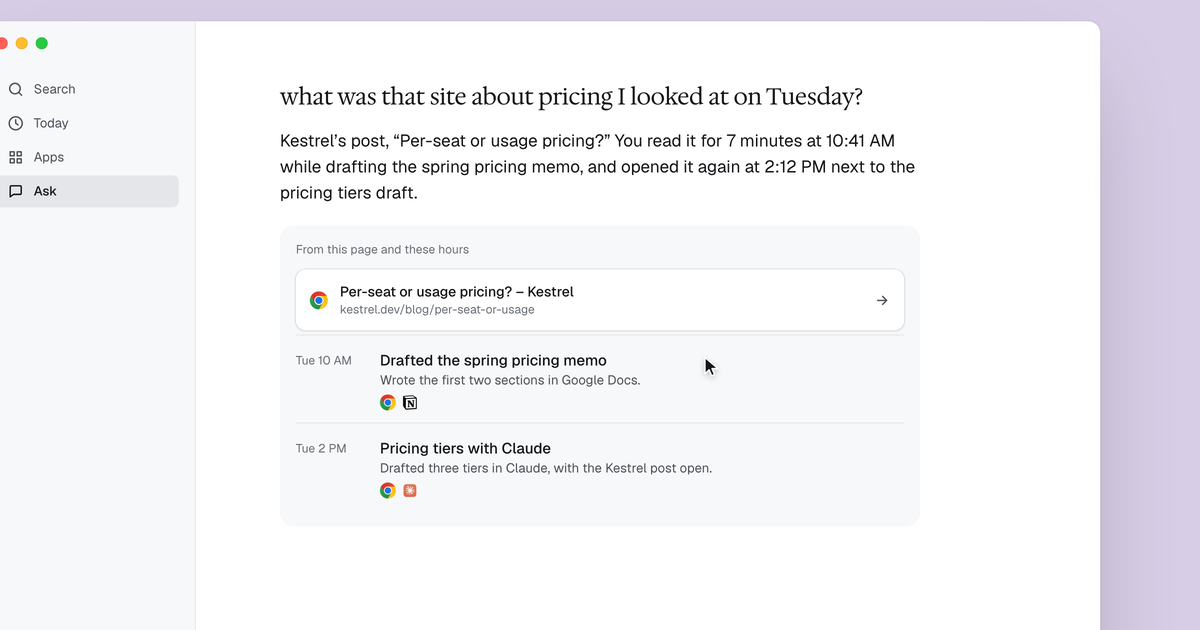
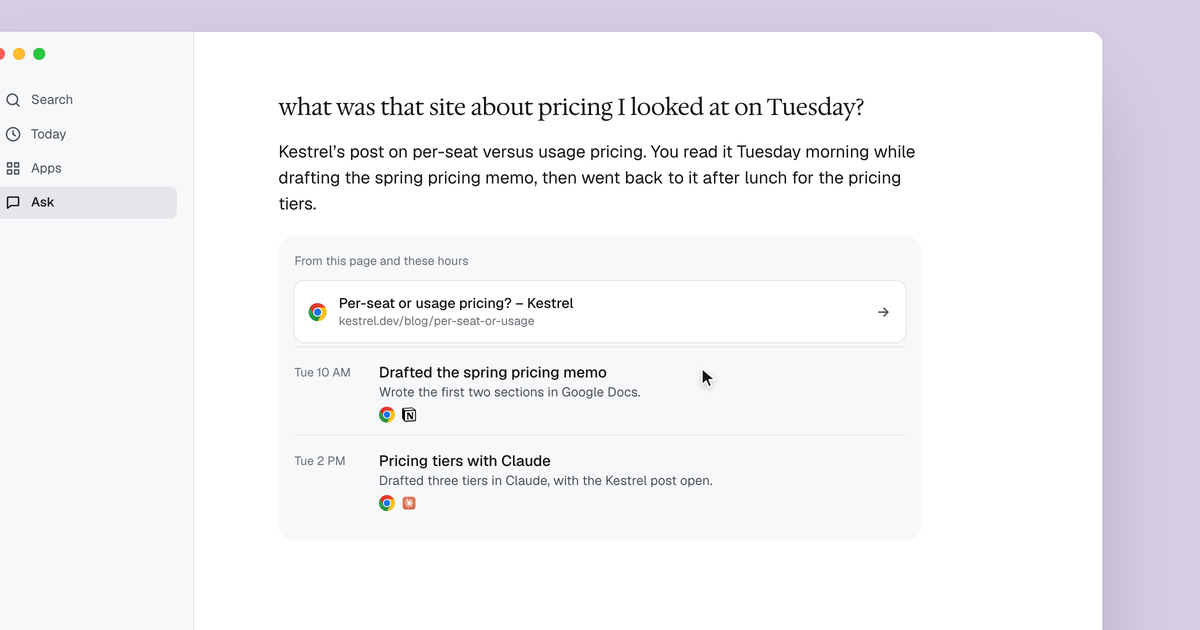
Ask and assistant answers read like someone describing their day

diff --git a/apps/site/app/(launch)/introducing-v2/_film/world.ts b/apps/site/app/(launch)/introducing-v2/_film/world.ts
@@ -140,7 +140,7 @@ export const SEARCH = {
 export const ASK = {
   question: "what was that site about pricing I looked at on Tuesday?",
   answer:
-    "Kestrel’s post, “Per-seat or usage pricing?” You read it for 7 minutes at 10:41 AM while drafting the spring pricing memo, and opened it again at 2:12 PM next to the pricing tiers draft.",
+    "Kestrel’s post on per-seat versus usage pricing. You read it Tuesday morning while drafting the spring pricing memo, then went back to it after lunch for the pricing tiers.",
   page: { title: "Per-seat or usage pricing? – Kestrel", host: "kestrel.dev/blog/per-seat-or-usage", icon: APPS.chrome },
   hours: [
     { at: "Tue 10 AM", title: "Drafted the spring pricing memo", line: "Wrote the first two sections in Google Docs.", apps: [APPS.chrome, APPS.notion] },

diff --git a/apps/site/app/(launch)/introducing-v2/_film/assistants.tsx b/apps/site/app/(launch)/introducing-v2/_film/assistants.tsx
@@ -13,7 +13,7 @@ const ASSISTANTS = [
 export const ASSISTANT_ICONS = ASSISTANTS.map((a) => a.icon);
 
 const QUESTION = "what did i get done this morning";
-const ANSWER = "You answered the Thursday review notes at 9, drafted the spring pricing memo until 11, then had the design sync and fixed the pricing page.";
+const ANSWER = "This morning you answered the Thursday review notes and drafted most of the spring pricing memo. The design sync ran long, and you fixed the pricing page right after.";
 const WORDS = ANSWER.split(" ");
 
 const CONNECT = 1.6;

diff --git a/apps/site/app/(launch)/introducing-v2/_film/shots.tsx b/apps/site/app/(launch)/introducing-v2/_film/shots.tsx
@@ -411,7 +411,7 @@ const ask: Shot = {
           {sent ? (
             <p className="f-thinking" style={{ opacity: thinking }}>
               <span className="f-shimmer" style={{ backgroundPosition: `${-200 + ((t * 160) % 400)}px 0` }}>
-                Reading Tuesday, 10 AM to 3 PM
+                Reading Tuesday
               </span>
             </p>
           ) : null}
